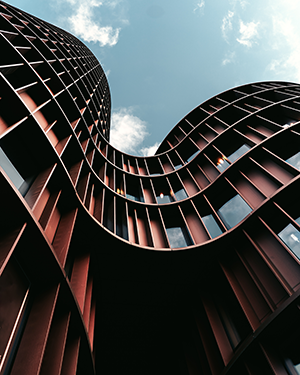
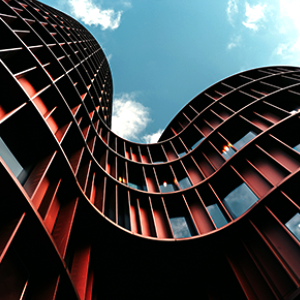
Add modified image sizes, deleted screenshot file, added bootstrap tasks

diff --git a/index.html b/index.html
@@ -1,0 +1,53 @@
+<!doctype html>
+<html lang="en">
+  <head>
+    <!-- Required meta tags -->
+    <meta charset="utf-8">
+    <meta name="viewport" content="width=device-width, initial-scale=1, shrink-to-fit=no">
+
+    <!-- Bootstrap CSS -->
+    <link rel="stylesheet" href="https://stackpath.bootstrapcdn.com/bootstrap/4.4.1/css/bootstrap.min.css" integrity="sha384-Vkoo8x4CGsO3+Hhxv8T/Q5PaXtkKtu6ug5TOeNV6gBiFeWPGFN9MuhOf23Q9Ifjh" crossorigin="anonymous">
+
+    <!-- CSS -->
+    <link type="text/css" rel="stylesheet" href="main.css" />
+
+    <!--Google Fonts-->
+    <link rel="preconnect" href="https://fonts.gstatic.com">
+    <link href="https://fonts.googleapis.com/css2?family=Oswald:wght@200;300;500;600&display=swap" rel="stylesheet">
+
+    <meta name="viewport" content="width=device-width, initial-scale=1">
+
+    <title>Module 1 | Assignment 2</title>
+  </head>
+  <body>
+    <header>
+      <h1 class="text-center text-uppercase">A Day in the Life of the Winking Girl.</h1>
+    </header>
+    <main class="container">
+      <div class="row">
+          <img class="shadow-sm p-3 mb-5 bg-white rounded" src="img/hw2-image1.png" alt="Windows" title="Windows" >
+          <img class="shadow-sm p-3 mb-5 bg-white rounded" src="img/hw2-image8.png" alt="Girl Wink" title="Girl Wink" >
+          <img class="shadow-sm p-3 mb-5 bg-white rounded" src="img/hw2-image7.png" alt="Beach Boats" title="Beach Boats" >
+          <img class="shadow-sm p-3 mb-5 bg-white rounded" src="img/hw2-image4.png" alt="Beach" title="Beach" >
+          <img class="shadow-sm p-3 mb-5 bg-white rounded" src="img/hw2-image5.png" alt="Weird Building" title="Weird Building" >
+          <img class="shadow-sm p-3 mb-5 bg-white rounded" src="img/hw2-image9.png" alt="Reef" title="Reef" >
+          <img class="shadow-sm p-3 mb-5 bg-white rounded" src="img/hw2-image3.png" alt="Graffiti Art" title="Graffiti Art" >
+          <img class="shadow-sm p-3 mb-5 bg-white rounded" src="img/hw2-image6.png" alt="Headphones" title="Headphones" >
+          <img class="shadow-sm p-3 mb-5 bg-white rounded" src="img/hw2-image2.png" alt="Cupcakes" title="Cupcakes" >
+      </div>
+
+      <div class="alert alert-info" role="alert">
+        A simple info alert—check it out!
+      </div>
+
+
+    </main>
+
+
+    <!-- Optional JavaScript -->
+    <!-- jQuery first, then Popper.js, then Bootstrap JS -->
+    <script src="https://code.jquery.com/jquery-3.4.1.slim.min.js" integrity="sha384-J6qa4849blE2+poT4WnyKhv5vZF5SrPo0iEjwBvKU7imGFAV0wwj1yYfoRSJoZ+n" crossorigin="anonymous"></script>
+    <script src="https://cdn.jsdelivr.net/npm/popper.js@1.16.0/dist/umd/popper.min.js" integrity="sha384-Q6E9RHvbIyZFJoft+2mJbHaEWldlvI9IOYy5n3zV9zzTtmI3UksdQRVvoxMfooAo" crossorigin="anonymous"></script>
+    <script src="https://stackpath.bootstrapcdn.com/bootstrap/4.4.1/js/bootstrap.min.js" integrity="sha384-wfSDF2E50Y2D1uUdj0O3uMBJnjuUD4Ih7YwaYd1iqfktj0Uod8GCExl3Og8ifwB6" crossorigin="anonymous"></script>
+  </body>
+</html>
